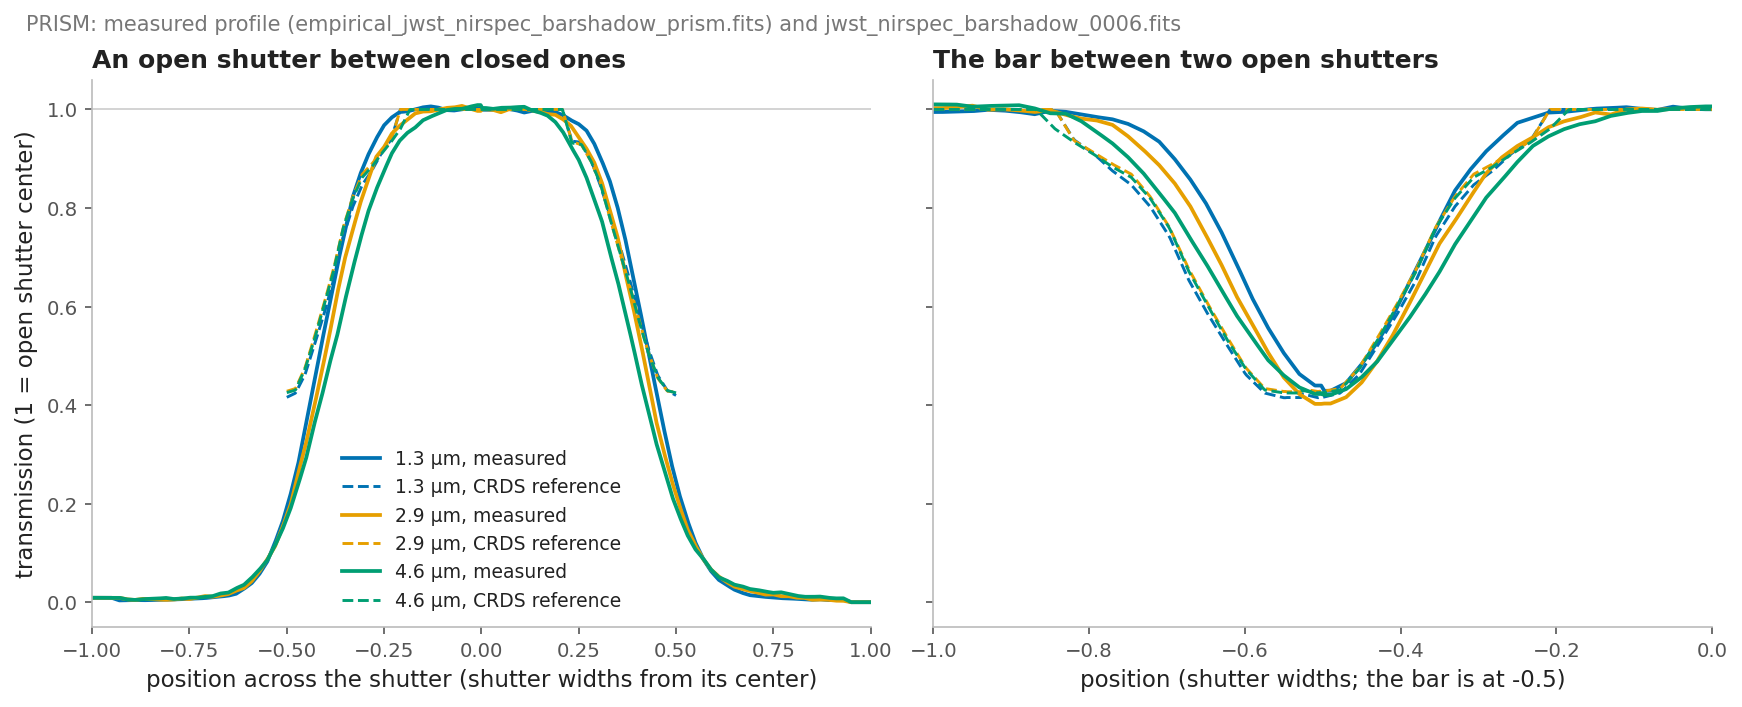
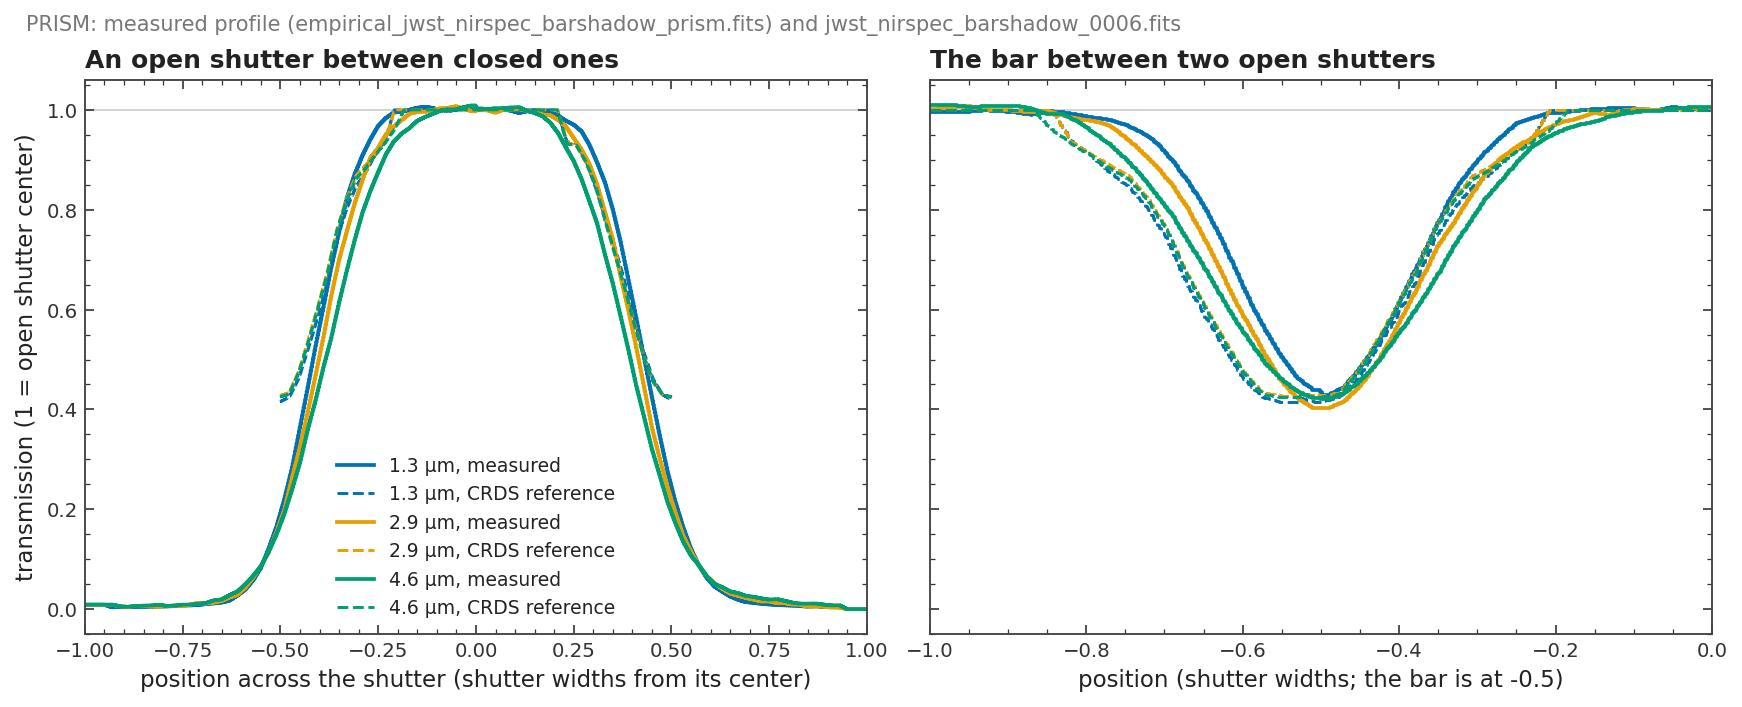
docs: NIRSpec figures restyled (frames and inward ticks on all sides, minor ticks, step profiles filled to zero, smooth trace edges); no 'painted' or 'partner'; figures_p1.sh runner
Claude-Session: https://claude.ai/code/session_019a5zAo87B6jUK2ZMiF6xjZ

diff --git a/scripts/docs/nirspec/common.py b/scripts/docs/nirspec/common.py
@@ -101,7 +101,8 @@ def trace_map(ws, exposure, stuck):
 
 
 def style():
-    """One look for every figure: white background, readable type, light axes."""
+    """One look for every figure: white background, readable type, a frame on all four
+    sides with inward ticks on every side, minor ticks on."""
     import matplotlib
     matplotlib.use('Agg')
     import matplotlib.pyplot as plt
@@ -109,14 +110,64 @@ def style():
         'figure.facecolor': 'white', 'axes.facecolor': 'white', 'savefig.facecolor': 'white',
         'font.size': 11, 'axes.titlesize': 12, 'axes.labelsize': 11, 'legend.fontsize': 10,
         'xtick.labelsize': 9.5, 'ytick.labelsize': 9.5,
-        'axes.edgecolor': '#bbbbbb', 'axes.labelcolor': INK, 'text.color': INK,
-        'xtick.color': '#555555', 'ytick.color': '#555555',
-        'axes.spines.top': False, 'axes.spines.right': False,
+        'axes.edgecolor': '#444444', 'axes.linewidth': 0.9, 'axes.labelcolor': INK, 'text.color': INK,
+        'xtick.color': '#333333', 'ytick.color': '#333333',
+        'axes.spines.top': True, 'axes.spines.right': True,
+        'xtick.top': True, 'xtick.bottom': True, 'ytick.left': True, 'ytick.right': True,
+        'xtick.direction': 'in', 'ytick.direction': 'in',
+        'xtick.minor.visible': True, 'ytick.minor.visible': True,
+        'xtick.major.size': 4.5, 'ytick.major.size': 4.5, 'xtick.minor.size': 2.5, 'ytick.minor.size': 2.5,
         'axes.titlelocation': 'left', 'axes.titleweight': 'bold',
         'legend.frameon': False, 'lines.linewidth': 1.6,
         'image.interpolation': 'nearest', 'image.origin': 'lower',
     })
     return plt
+
+
+def smooth_edges(iy, ix, deg=2, min_cols=20):
+    """Smooth lower and upper edges of a trace footprint given its pixels (rows ``iy``,
+    columns ``ix``): per column the lowest and highest lit row, each fitted with a
+    polynomial in column. Returns (columns, lower, upper) on a fine grid over the columns
+    the footprint covers, in pixel coordinates (edges at the pixel borders), or None."""
+    import numpy as np
+    iy, ix = np.asarray(iy), np.asarray(ix)
+    cols = np.unique(ix)
+    if cols.size < min_cols:
+        return None
+    lo = np.array([iy[ix == c].min() for c in cols], float) - 0.5
+    hi = np.array([iy[ix == c].max() for c in cols], float) + 0.5
+    x = np.linspace(cols.min() - 0.5, cols.max() + 0.5, 400)
+    t = (cols - cols.mean()) / max(np.ptp(cols), 1)
+    tx = (x - cols.mean()) / max(np.ptp(cols), 1)
+    d = min(deg, cols.size - 1)
+    return x, np.polyval(np.polyfit(t, lo, d), tx), np.polyval(np.polyfit(t, hi, d), tx)
+
+
+def draw_trace(ax, iy, ix, color, fill_alpha=0.0, lw=1.5, label=None):
+    """Draw a trace footprint as two smooth edge lines (optionally filled between)."""
+    e = smooth_edges(iy, ix)
+    if e is None:
+        return None
+    x, lo, hi = e
+    if fill_alpha > 0:
+        ax.fill_between(x, lo, hi, color=color, alpha=fill_alpha, lw=0)
+    ax.plot(x, lo, color=color, lw=lw, label=label)
+    ax.plot(x, hi, color=color, lw=lw)
+    return e
+
+
+def profile_step(ax, values, positions, color, label=None, vertical=False, fill_alpha=0.25, lw=1.5, ls='-'):
+    """A profile drawn as steps, filled to zero. ``positions`` are the bin centers (pixel
+    rows); with ``vertical`` the profile runs up the y axis (value on x)."""
+    import numpy as np
+    v = np.asarray(values, float)
+    pos = np.asarray(positions, float)
+    edges = np.r_[pos[0] - 0.5, 0.5 * (pos[1:] + pos[:-1]), pos[-1] + 0.5]
+    orient = 'horizontal' if vertical else 'vertical'
+    if fill_alpha > 0:
+        ax.stairs(np.nan_to_num(v), edges, baseline=0, fill=True, color=color, alpha=fill_alpha,
+                  orientation=orient, lw=0)
+    ax.stairs(v, edges, baseline=None, color=color, lw=lw, ls=ls, orientation=orient, label=label)
 
 
 def save(fig, args, default_name):

diff --git a/scripts/docs/nirspec/fig_nod_subtraction.py b/scripts/docs/nirspec/fig_nod_subtraction.py
@@ -1,12 +1,12 @@
-"""Nod subtraction: each exposure minus its partner exposures, and when a partner is skipped.
+"""Nod subtraction: each exposure minus the other nods, and when a nod is left out.
 
 One row per exposure of a source (one exposure group, one detector), rectified and averaged
-in blocks along the wavelength axis for display: the calibrated frame, the frame after its
-partner exposures are subtracted (the source positive, its copies from the partner
-exposures negative), and the brightness along the slitlet averaged over wavelength. When
-the pipeline skipped a partner exposure because another source sits in that partner's
-shutter, the profile also shows the same exposure minus the mean of every partner, dashed:
-an illustration of what skipping avoids, computed here from the rectified frames.
+in blocks along the wavelength axis for display: the calibrated frame, the frame after the
+other nods are subtracted (the source positive, its copies from the other nods negative),
+and the brightness along the slitlet averaged over wavelength. When the pipeline left a nod
+out of the background because another source sits in the shutter that nod would use, the
+profile also shows the same exposure minus the mean of all the other nods, dashed: an
+illustration of what leaving it out avoids, computed here from the rectified frames.
 
     python scripts/docs/nirspec/fig_nod_subtraction.py --root <root> --obs ember_cosmos_p1 \
         --source 634072 --exposure-group jw07076001001_03101 --detector nrs2
@@ -67,22 +67,24 @@ for r, fr in enumerate(frames):
     C.label_panel(ax, f'nod {fr["nod"]}')
     ax = axes[r, 1]
     ax.imshow(fr['after'], cmap='RdBu_r', vmin=-va, vmax=va, aspect='auto')
-    partners = fr['used'] if fr['override'] else ', '.join(str(o['nod']) for o in others)
-    C.label_panel(ax, f'minus nod {partners}' if fr['override'] else f'minus the mean of nods {partners}')
+    used = fr['used'] if fr['override'] else ', '.join(str(o['nod']) for o in others)
+    C.label_panel(ax, f'minus nod {used}' if fr['override'] else f'minus the mean of nods {used}')
     ax = axes[r, 2]
     rows = np.arange(fr['after_full'].shape[0])
-    ax.axhline(0, color='#cccccc', lw=0.8)
-    ax.plot(np.nanmean(fr['after_full'], axis=1), rows, color=C.PALETTE[0], lw=1.8, label='as subtracted')
+    ax.axvline(0, color='#999999', lw=0.8)
+    C.profile_step(ax, np.nanmean(fr['after_full'], axis=1), rows, C.PALETTE[0], vertical=True,
+                   label='as subtracted')
     if fr['override'] and same_grid:
         alt = fr['before_full'] - np.nanmean([o['before_full'] for o in others], axis=0)
-        ax.plot(np.nanmean(alt, axis=1), rows, color=C.PALETTE[5], lw=1.6, ls='--',
-                label='if every partner were used')
+        C.profile_step(ax, np.nanmean(alt, axis=1), rows, C.PALETTE[5], vertical=True, fill_alpha=0, ls='--',
+                       label='with every other nod')
         ax.legend(loc='lower right', fontsize=8.5)
-        ax.text(0.02, 0.98, f'skipped: {fr["why"]}', transform=ax.transAxes, fontsize=8.5, va='top', color=C.INK)
+        ax.text(0.02, 0.98, f'nod left out: {fr["why"]}', transform=ax.transAxes, fontsize=8.5, va='top',
+                color=C.INK)
     ax.set_ylim(rows[0] - 0.5, rows[-1] + 0.5)
     for a in axes[r, :2]:
         a.set_yticks([])
-    axes[r, 2].set_yticks([])
+    axes[r, 2].set_yticklabels([])
     if r < len(frames) - 1:
         for a in axes[r]:
             a.set_xticklabels([])

diff --git a/scripts/docs/nirspec/fig_failed_open.py b/scripts/docs/nirspec/fig_failed_open.py
@@ -2,10 +2,10 @@
 (and sometimes an object) onto the detector.
 
 One row per failed-open shutter: the count rate around its trace (outlined), the master
-background painted there, and the data minus the background. The listed failed-open
-shutters pass anything from all of an empty shutter's background to almost none, so each is
-painted at the fraction measured from its own pixels; light above that (an object behind
-the shutter) is left for the contamination model.
+background there, and the data minus the background. Failed-open shutters pass anything
+from all of an empty shutter's background to almost none, so the master background includes
+each at the fraction measured from its own pixels; light above that (an object behind the
+shutter) is left for the contamination model.
 
     python scripts/docs/nirspec/fig_failed_open.py --root <root> --obs ember_cosmos_p1 \
         --exposure jw07076001001_03101_00001_nrs1 --shutters 11 19 12 \
@@ -45,22 +45,22 @@ for r, num in enumerate(args.shutters):
     sel = idx == row
     y0, y1 = max(iy[sel].min() - args.margin, 0), min(iy[sel].max() + args.margin + 1, NY)
     x0, x1 = ix[sel].min(), ix[sel].max() + 1
-    m = np.zeros((y1 - y0, x1 - x0))
-    m[iy[sel] - y0, ix[sel] - x0] = 1.0
     sl = (slice(y0, y1), slice(x0, x1))
     ext = [x0 - 0.5, x1 - 0.5, y0 - 0.5, y1 - 0.5]
     d, b = rate[sl], np.nan_to_num(mb[sl])
     norm = C.asinh_norm(np.concatenate([d.ravel(), b.ravel()]))
     resid = d - b
     lim = np.nanpercentile(np.abs(resid), 98)
-    for k, (img, title) in enumerate([(d, 'Data (count rate)'), (b, 'Master background, painted'),
+    for k, (img, title) in enumerate([(d, 'Data (count rate)'), (b, 'Master background'),
                                       (resid, 'Data minus master background')]):
         ax = axes[r, k]
         if k < 2:
             ax.imshow(img, extent=ext, cmap='Greys', norm=norm, aspect='auto')
         else:
             ax.imshow(img, extent=ext, cmap='RdBu_r', vmin=-lim, vmax=lim, aspect='auto')
-        ax.contour(np.arange(x0, x1), np.arange(y0, y1), m, levels=[0.5], colors=[C.PALETTE[1]], linewidths=1.3)
+        C.draw_trace(ax, iy[sel], ix[sel], C.PALETTE[1], lw=1.3)
+        ax.set_xlim(ext[0], ext[1])
+        ax.set_ylim(ext[2], ext[3])
         if r == 0:
             ax.set_title(title)
         if k == 0:

diff --git a/scripts/docs/nirspec/fig_master_background.py b/scripts/docs/nirspec/fig_master_background.py
@@ -1,8 +1,8 @@
-"""The master background of one exposure: measured from empty shutters, painted onto the
-detector.
+"""The master background of one exposure: measured from empty shutters, then modeled on
+the detector through every shutter's geometry.
 
-Top row: a detector region as count rate, the master background painted onto it, and the
-two subtracted (what is left is the light of the sources). Bottom left: the background
+Top row: a detector region as count rate, the master background there, and the two
+subtracted (what is left is the light of the sources). Bottom left: the background
 spectrum measured from the empty shutters, with the zodiacal-light prediction for the
 pointing and date. Bottom right: each empty shutter's brightness relative to that spectrum;
 shutters that disagree (a faint source, a stuck or partly open shutter) are left out.
@@ -33,7 +33,7 @@ grating = f"{rhdr.get('GRATING', '')}/{rhdr.get('FILTER', '')}"
 
 if args.region:
     x0, y0, nx, ny = args.region
-else:                                                    # the most completely painted region of this size
+else:                                                    # the region of this size the master background covers best
     nx, ny = 500, 220
     from scipy.ndimage import uniform_filter
     cover = uniform_filter((np.isfinite(mb2d) & (mb2d > 0)).astype(float), size=(ny, nx), mode='constant')
@@ -46,7 +46,7 @@ d, m = rate[sl], np.where(np.isfinite(mb2d[sl]), mb2d[sl], np.nan)
 fig = plt.figure(figsize=(12, 8.2), constrained_layout=True)
 gs = fig.add_gridspec(2, 3, height_ratios=[1, 0.95])
 norm = C.asinh_norm(d)
-for k, (img, title) in enumerate([(d, 'Data (count rate)'), (m, 'Master background, painted'),
+for k, (img, title) in enumerate([(d, 'Data (count rate)'), (m, 'Master background'),
                                   (d - np.nan_to_num(m), 'Data minus master background')]):
     ax = fig.add_subplot(gs[0, k])
     if k < 2:

diff --git a/scripts/docs/nirspec/fig_overlap.py b/scripts/docs/nirspec/fig_overlap.py
@@ -69,12 +69,10 @@ ids, n = np.unique(idx[in_strip], return_counts=True)
 ids = ids[n > 200]                                                     # traces with a real footprint in the strip
 order = ids[np.argsort([np.median(ix[in_strip & (idx == t)]) for t in ids])]
 for k, t in enumerate(order):
-    sel = in_strip & (idx == t)
-    m = np.zeros((ny, NX))
-    m[iy[sel] - y0, ix[sel]] = 1.0
+    sel_all = idx == t                                                 # the whole trace, so its edges are smooth
+    sel = in_strip & sel_all
     color = C.PALETTE[k % 6]                                           # 6 strong colors; neighbors differ
-    ax.contourf(np.arange(NX), np.arange(y0, y0 + ny), m, levels=[0.5, 1.5], colors=[color], alpha=0.35)
-    ax.contour(np.arange(NX), np.arange(y0, y0 + ny), m, levels=[0.5], colors=[color], linewidths=1.2)
+    C.draw_trace(ax, iy[sel_all], ix[sel_all], color, fill_alpha=0.30, lw=1.3)
     rec = tm.slits[int(t)]
     sid = int(rec['source_id']) if 'source_id' in tm.slits.colnames else -1
     name = str(sid) if sid > 0 else ('failed-open shutter' if 'failed' in str(rec['kind']) else str(rec['kind']))
@@ -82,6 +80,7 @@ for k, t in enumerate(order):
     ya = float(np.median(iy[sel]))
     ax.text(max(xa, 5), ya, name, fontsize=8.5, color=C.INK, va='center', ha='left',
             bbox=dict(boxstyle='round,pad=0.15', fc='white', ec=color, lw=0.8, alpha=0.9))
+ax.set_ylim(y0 - 0.5, y0 + ny - 0.5)
 ax.set_title("The same strip: each slitlet's footprint, labeled with its source")
 ax.set_ylabel('row')
 ax.set_xlabel('detector column (wavelength increases to the right)')

diff --git a/scripts/docs/nirspec/fig_stuck_shutters.py b/scripts/docs/nirspec/fig_stuck_shutters.py
@@ -92,13 +92,14 @@ for i in members:
     a = a_of.get(key, np.nan)
     stuck = a < 0.3
     color = C.PALETTE[5] if stuck else C.PALETTE[0]
-    ax.contour(np.arange(x0, x1), np.arange(y0, y1), masks[i][sl].astype(float), levels=[0.5],
-               colors=[color], linewidths=1.8)
     yy, xx = np.nonzero(masks[i])
+    C.draw_trace(ax, yy, xx, color, lw=1.8)
     ax.text(x0 + 0.01 * (x1 - x0), float(np.median(yy)),
             f'q{key[0]} r{key[1]} c{key[2]}:  a = {a:.2f}  ({"stuck" if stuck else "open"})',
             fontsize=9.5, va='center', ha='left', color=C.INK,
             bbox=dict(boxstyle='round,pad=0.2', fc='white', ec=color, lw=1, alpha=0.9))
+ax.set_xlim(ext[0], ext[1])
+ax.set_ylim(ext[2], ext[3])
 ax.set_title(f'One slitlet with a stuck shutter ({grating_ex}): no background light comes through it')
 ax.set_xlabel('detector column')
 ax.set_ylabel('detector row')

diff --git a/scripts/docs/nirspec/fig_bar_shadow.py b/scripts/docs/nirspec/fig_bar_shadow.py
@@ -66,7 +66,7 @@ for ax, name, title, xlab in [
             prof = d[:, col].copy()
             if t is tc and name == 'DATA1X1':
                 prof[np.abs(y) > 0.5] = np.nan        # jwst reads the reference only inside the open shutter
-            ax.plot(y, prof, color=color, ls=ls, lw=1.8 if ls == '-' else 1.4,
+            ax.step(y, prof, where='mid', color=color, ls=ls, lw=1.8 if ls == '-' else 1.4,
                     label=f'{wl:g} µm, {lab}')
     ax.axhline(1.0, color='#cccccc', lw=0.8, zorder=0)
     ax.set_title(title)
